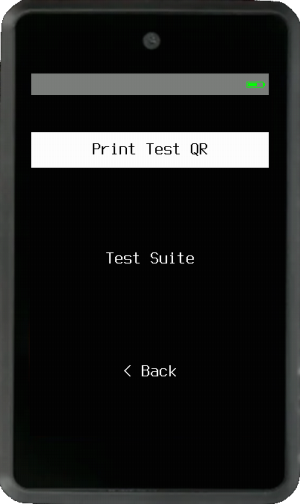
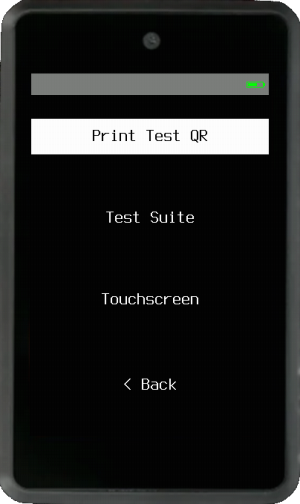
Tools > Device Tests > Touchscreen

diff --git a/src/krux/pages/device_tests.py b/src/krux/pages/device_tests.py
@@ -24,20 +24,24 @@ from . import Page, Menu, MENU_CONTINUE
 from ..display import DEFAULT_PADDING, FONT_HEIGHT, FONT_WIDTH
 from ..krux_settings import t
 from ..wdt import wdt
+from ..kboard import kboard
 
 
 class DeviceTests(Page):
     """On-Device test-suite"""
 
     def __init__(self, ctx):
+        menu_items = [
+            (t("Print Test QR"), self.print_test),
+            (t("Test Suite"), self.test_suite),
+        ]
+        if kboard.has_touchscreen:
+            menu_items += [(t("Touchscreen"), self.test_touch)]
         super().__init__(
             ctx,
             Menu(
                 ctx,
-                [
-                    (t("Print Test QR"), self.print_test),
-                    (t("Test Suite"), self.test_suite),
-                ],
+                menu_items,
             ),
         )
         self.results = []
@@ -152,6 +156,32 @@ class DeviceTests(Page):
         if idx == len(self.results):
             return MENU_CONTINUE
         return self.run_one_test(self.results[idx][0])
+
+    def test_touch(self):
+        """Check touch detection across the entire screen"""
+        from ..buttons import PRESSED
+        from ..themes import theme
+
+        self.ctx.display.clear()
+        self.ctx.display.draw_centered_text(t("Touchscreen"))
+        while True:
+            wdt.feed()
+            if self.ctx.input.touch_value() == PRESSED:
+                x, y = self.ctx.input.touch.release_point
+                self.ctx.display.fill_rectangle(x, y, 10, 10, theme.fg_color)
+            elif (
+                self.ctx.input.enter_value() == PRESSED
+                or self.ctx.input.page_value() == PRESSED
+                or self.ctx.input.page_prev_value() == PRESSED
+            ):
+                break
+
+        # Prevent release capture when exiting
+        self.ctx.input.wait_for_release()
+        # Prevent the next touch from being mistakenly detected as a swipe
+        self.ctx.input.touch.gesture = None
+
+        return MENU_CONTINUE
 
     def run_one_test(self, test):
         """run a single test w/ interactive=True, display success/fail and results"""

diff --git a/tests/pages/test_device_tests.py b/tests/pages/test_device_tests.py
@@ -662,3 +662,18 @@ def test_run_one_test_without_touch_gestures(m5stickv, mocker):
     assert page.results == [(page.touch_gestures, True)]
 
     assert ctx.input.wait_for_button.call_count == len(BTN_SEQUENCE)
+
+
+def test_test_touch(mocker, amigo):
+    from krux.pages.device_tests import DeviceTests
+    from krux.buttons import PRESSED
+
+    ctx = create_ctx(mocker, [])
+    ctx.input.touch.release_point = (1, 1)
+    ctx.input.touch_value = mocker.MagicMock(side_effect=[PRESSED, None])
+    ctx.input.page_value = mocker.MagicMock(side_effect=[PRESSED, None])
+    DeviceTests(ctx).test_touch()
+
+    ctx.display.fill_rectangle.assert_called()
+    ctx.input.wait_for_release.assert_called()
+    assert ctx.input.touch.gesture == None

diff --git a/simulator/kruxsim/mocks/lcd.py b/simulator/kruxsim/mocks/lcd.py
@@ -28,6 +28,7 @@ from numpy import zeros_like
 from kruxsim import events
 from kruxsim.mocks.board import BOARD_CONFIG
 from krux.krux_settings import Settings
+import time
 
 COLOR_BLACK = (0, 0, 0)
 COLOR_WHITE = (255, 255, 255)
@@ -411,6 +412,7 @@ def fill_rectangle(x, y, w, h, color, radius=0):
         x = width() - w - x
     radius = min(radius, min(w, h) // 2)
     pg.event.post(pg.event.Event(events.LCD_FILL_RECTANGLE_EVENT, {"f": run}))
+    time.sleep(0.001)
 
 
 def draw_circle(x, y, radious, quadrant, color):

diff --git a/src/krux/pages/keypads.py b/src/krux/pages/keypads.py
@@ -33,9 +33,9 @@ from ..input import (
     SWIPE_LEFT,
     FAST_FORWARD,
     FAST_BACKWARD,
-    PRESSED,
     KEY_REPEAT_DELAY_MS,
 )
+from ..buttons import PRESSED
 from ..display import DEFAULT_PADDING, MINIMAL_PADDING, FONT_HEIGHT, FONT_WIDTH
 
 FIXED_KEYS = 3  # 'More' key only appears when there are multiple keysets.

diff --git a/src/krux/pages/qr_capture.py b/src/krux/pages/qr_capture.py
@@ -23,7 +23,7 @@ import board
 import time
 from . import Page
 from ..display import FONT_HEIGHT, MINIMAL_PADDING, BOTTOM_LINE
-from ..input import PRESSED
+from ..buttons import PRESSED
 from ..themes import theme
 from ..qr import QRPartParser, FORMAT_UR
 from ..wdt import wdt

diff --git a/src/krux/pages/mnemonic_editor.py b/src/krux/pages/mnemonic_editor.py
@@ -33,9 +33,9 @@ from ..input import (
     BUTTON_PAGE_PREV,
     FAST_FORWARD,
     FAST_BACKWARD,
-    PRESSED,
     KEY_REPEAT_DELAY_MS,
 )
+from ..buttons import PRESSED
 from ..key import Key
 from ..kboard import kboard
 import time

diff --git a/src/krux/pages/tiny_seed.py b/src/krux/pages/tiny_seed.py
@@ -43,9 +43,9 @@ from ..input import (
     BUTTON_TOUCH,
     FAST_FORWARD,
     FAST_BACKWARD,
-    PRESSED,
     KEY_REPEAT_DELAY_MS,
 )
+from ..buttons import PRESSED
 from ..bip39 import entropy_checksum
 from ..kboard import kboard
 

diff --git a/src/krux/pages/__init__.py b/src/krux/pages/__init__.py
@@ -38,9 +38,9 @@ from ..input import (
     SWIPE_LEFT,
     SWIPE_RIGHT,
     ONE_MINUTE,
-    PRESSED,
     KEY_REPEAT_DELAY_MS,
 )
+from ..buttons import PRESSED
 from ..display import (
     DEFAULT_PADDING,
     MINIMAL_PADDING,

diff --git a/src/krux/touch.py b/src/krux/touch.py
@@ -291,5 +291,5 @@ class Touch:
         return 1
 
     def current_index(self):
-        """Returns current intex of last touched point"""
+        """Returns current index of last touched point"""
         return self.index

diff --git a/src/krux/pages/stack_1248.py b/src/krux/pages/stack_1248.py
@@ -32,9 +32,9 @@ from ..input import (
     BUTTON_TOUCH,
     FAST_FORWARD,
     FAST_BACKWARD,
-    PRESSED,
     KEY_REPEAT_DELAY_MS,
 )
+from ..buttons import PRESSED
 from ..kboard import kboard
 import time
 

diff --git a/src/krux/pages/datum_tool.py b/src/krux/pages/datum_tool.py
@@ -50,8 +50,8 @@ from ..input import (
     SWIPE_RIGHT,
     SWIPE_DOWN,
     KEY_REPEAT_DELAY_MS,
-    PRESSED,
 )
+from ..buttons import PRESSED
 
 DATUM_DESCRIPTOR = "DESC"
 DATUM_PSBT = "PSBT"

diff --git a/CHANGELOG.md b/CHANGELOG.md
@@ -12,6 +12,9 @@ Reduced firmware size by 25% and lowered RAM usage through code cleanup and opti
 ### Discontinued Support for Maix Bit Device
 The Maix Bit device has long been discouraged due to its poor-quality camera. Starting with this release, we are discontinuing support and it will no longer be included in future builds. The support and parameters for building its firmware from source, however, will be kept.
 
+### Other Bug Fixes and Improvements
+- Touchscreen test added in Tools for detection check
+
 # Changelog 25.09.0 - September 2025
 
 ### Extended Encryption Options
